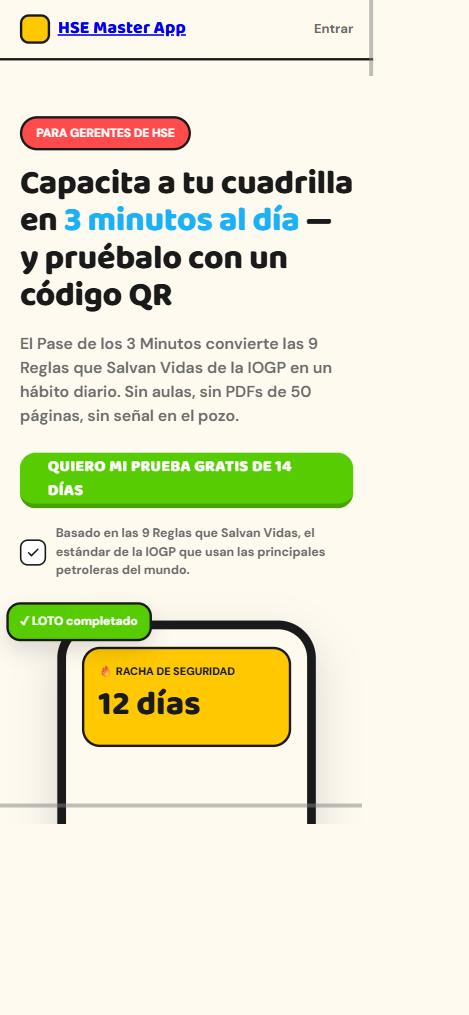
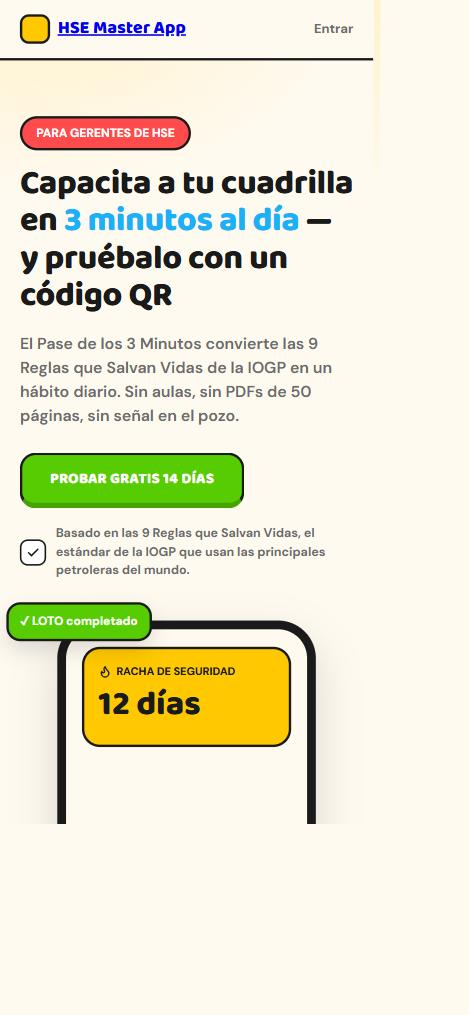
Sesión 3: corrige defectos top de la primera revisión de la landing

diff --git a/landing.html b/landing.html
@@ -18,18 +18,36 @@
     --rojo: #ff4b4b; --rojo-sombra: #d93838;
     --font-display: 'Baloo 2', sans-serif; --font-body: 'DM Sans', sans-serif;
   }
-  body { background: var(--bg); color: var(--ink); font-family: var(--font-body); line-height: 1.5; }
-  .wrap { max-width: 1120px; margin: 0 auto; padding: 0 20px; }
+  body {
+    background:
+      radial-gradient(540px 320px at 8% 0%, color-mix(in oklab, var(--amarillo) 16%, transparent), transparent 60%),
+      radial-gradient(480px 300px at 96% 14%, color-mix(in oklab, var(--azul) 12%, transparent), transparent 60%),
+      radial-gradient(460px 280px at 4% 72%, color-mix(in oklab, var(--verde) 10%, transparent), transparent 60%),
+      var(--bg);
+    color: var(--ink); font-family: var(--font-body); line-height: 1.5;
+  }
+  .wrap { max-width: 1120px; margin: 0 auto; padding: 0 20px; position: relative; }
   section { padding: 72px 0; }
   h1, h2, h3 { font-family: var(--font-display); font-weight: 800; letter-spacing: -0.01em; }
+  a:focus-visible, button:focus-visible, .boton:focus-visible, summary:focus-visible {
+    outline: 3px solid var(--azul); outline-offset: 3px; border-radius: 4px;
+  }
+  .boton:hover { filter: brightness(1.04); }
+  .top a.entrar:hover { color: var(--ink); text-decoration: underline; }
+  /* ── Movimiento: revelado al hacer scroll (respeta reduced-motion) ── */
+  .reveal { opacity: 0; transform: translateY(18px); transition: opacity 500ms ease, transform 500ms ease; }
+  .reveal.in { opacity: 1; transform: translateY(0); }
+  @media (prefers-reduced-motion: reduce) { .reveal { opacity: 1; transform: none; transition: none; } }
   .boton {
     display: inline-flex; align-items: center; justify-content: center; gap: 8px;
     height: 56px; padding: 0 28px; border-radius: 16px; font-family: var(--font-display);
-    font-size: 16px; font-weight: 800; text-decoration: none; border: none; cursor: pointer;
-    text-transform: uppercase; letter-spacing: 0.02em;
+    font-size: 15px; font-weight: 800; text-decoration: none; cursor: pointer;
+    text-transform: uppercase; letter-spacing: 0.01em; border: 3px solid var(--ink);
+    transition: transform 120ms ease, border-bottom-width 120ms ease, margin-top 120ms ease;
   }
-  .boton-verde { background: var(--verde); color: #fff; border-bottom: 5px solid var(--verde-sombra); }
-  .boton-amarillo { background: var(--amarillo); color: var(--ink); border-bottom: 5px solid var(--amarillo-sombra); }
+  .boton-verde { background: var(--verde); color: #fff; border-bottom: 6px solid var(--verde-sombra); }
+  .boton-amarillo { background: var(--amarillo); color: var(--ink); border-bottom: 6px solid var(--amarillo-sombra); }
+  .boton:active { border-bottom-width: 3px; transform: translateY(3px); }
   .badge { display: inline-flex; align-items: center; gap: 6px; background: var(--rojo); color: #fff;
            border: 2.5px solid var(--ink); border-radius: 999px; padding: 6px 14px; font-size: 12px; font-weight: 800; }
   .bloque { border-radius: 20px; border: 3px solid var(--ink); }
@@ -58,7 +76,8 @@
                 background: var(--bg); overflow: hidden; box-shadow: 0 20px 44px rgb(0 0 0 / 0.14); }
   .phone-mini .scr { padding: 18px 16px; }
   .phone-mini .racha { background: var(--amarillo); border: 3px solid var(--ink); border-radius: 18px; padding: 14px; }
-  .phone-mini .racha .l { font-size: 11px; font-weight: 800; text-transform: uppercase; }
+  .phone-mini .racha .l { font-size: 11px; font-weight: 800; text-transform: uppercase; display: flex; align-items: center; gap: 5px; }
+  .ic-flame { display: inline-flex; flex-shrink: 0; }
   .phone-mini .racha .n { font-family: var(--font-display); font-size: 34px; font-weight: 800; }
   .float-chip { position: absolute; background: var(--verde); color: #fff; border: 3px solid var(--ink); border-radius: 14px;
                 padding: 8px 12px; font-size: 12px; font-weight: 800; box-shadow: 0 10px 20px rgb(0 0 0 / 0.12); }
@@ -70,7 +89,9 @@
   @media (min-width: 700px) { .problema h2 { font-size: 34px; } }
   .preguntas { margin-top: 36px; display: grid; gap: 14px; grid-template-columns: 1fr; }
   @media (min-width: 700px) { .preguntas { grid-template-columns: 1fr 1fr; } }
-  .pregunta-card { display: flex; gap: 14px; align-items: flex-start; background: var(--bg); border: 3px solid var(--ink); border-radius: 18px; padding: 16px; }
+  .pregunta-card { display: flex; gap: 14px; align-items: flex-start; background: var(--bg); border: 3px solid var(--ink); border-radius: 18px; padding: 16px;
+                   transition: transform 150ms ease, box-shadow 150ms ease; }
+  .pregunta-card:hover { transform: translateY(-3px); box-shadow: 0 8px 0 -4px rgb(26 26 26 / 0.12), 0 10px 16px rgb(26 26 26 / 0.08); }
   .pregunta-card .ic { width: 42px; height: 42px; border-radius: 12px; background: var(--rojo); border: 2.5px solid var(--ink);
                         display: flex; align-items: center; justify-content: center; flex-shrink: 0; }
   .pregunta-card p { font-size: 14.5px; font-weight: 700; }
@@ -163,7 +184,9 @@
   .faq h2 { text-align: center; font-size: 28px; }
   .faq-list { max-width: 720px; margin: 36px auto 0; display: flex; flex-direction: column; gap: 12px; }
   .faq-item { background: var(--bg); border: 3px solid var(--ink); border-radius: 16px; padding: 18px 20px; }
+  .faq-item { transition: background 150ms ease; }
   .faq-item summary { font-weight: 800; font-size: 14.5px; cursor: pointer; list-style: none; display: flex; justify-content: space-between; align-items: center; }
+  .faq-item summary:hover { color: var(--azul-sombra); }
   .faq-item summary::-webkit-details-marker { display: none; }
   .faq-item p { margin-top: 10px; font-size: 13.5px; color: var(--ink-2); font-weight: 600; line-height: 1.6; }
   .chev { transition: transform 0.2s; }
@@ -212,7 +235,7 @@
       <h1 style="margin-top:14px;">Capacita a tu cuadrilla en <em>3 minutos al día</em> — y pruébalo con un código QR</h1>
       <p class="sub">El Pase de los 3 Minutos convierte las 9 Reglas que Salvan Vidas de la IOGP en un hábito diario. Sin aulas, sin PDFs de 50 páginas, sin señal en el pozo.</p>
       <div class="cta-row">
-        <a href="#oferta" class="boton boton-verde">Quiero mi prueba gratis de 14 días</a>
+        <a href="#oferta" class="boton boton-verde">Probar gratis 14 días</a>
       </div>
       <div class="prueba-industria">
         <span class="chip">
@@ -225,7 +248,7 @@
       <div class="phone-mini">
         <div class="scr">
           <div class="racha">
-            <p class="l">🔥 Racha de seguridad</p>
+            <p class="l"><svg class="ic-flame" width="13" height="13" viewBox="0 0 24 24" fill="none" stroke="#1a1a1a" stroke-width="2.6" stroke-linecap="round" stroke-linejoin="round"><path d="M8.5 14.5A2.5 2.5 0 0 0 11 12c0-1.38-.5-2-1-3-1.07-2.14-.22-4.05 2-6 .5 2.5 2 4.9 4 6.5 2 1.6 3 3.5 3 5.5a7 7 0 1 1-14 0c0-1.15.43-2.29 1-3a2.5 2.5 0 0 0 2.5 2.5z"/></svg>Racha de seguridad</p>
             <p class="n">12 días</p>
           </div>
         </div>
@@ -238,7 +261,7 @@
 
 <!-- 2. PROBLEMA -->
 <section class="problema">
-  <div class="wrap">
+  <div class="wrap reveal">
     <h2>¿Te suena familiar?</h2>
     <div class="preguntas">
       <div class="pregunta-card">
@@ -267,15 +290,17 @@
 
 <!-- 3. AGITACIÓN -->
 <section class="agitacion">
-  <div class="wrap">
+  <div class="wrap reveal">
     <h2>El problema no es que no des charlas. Es que nadie prueba que entendieron.</h2>
-    <p>Cada mes que sigue igual no es solo papeleo acumulado: es la posibilidad real de una <b>fatalidad que cierra la operación</b>, destruye tu carrera y te lleva a responder legalmente. Si nada cambia, en 6 meses vas a seguir haciendo inducciones repetitivas por la rotación de contratistas, sin saber <b>qué no saben</b> tus trabajadores — hasta que un near miss te lo diga de la peor forma. Ya probaste PowerPoint, e-learnings y talleres presenciales: fallan porque solo miden <b>"asistencia"</b>, no comprensión — la gente le da "siguiente, siguiente" sin leer un párrafo.</p>
+    <p>Cada mes que sigue igual no es solo papeleo acumulado: es la posibilidad real de una <b>fatalidad que cierra la operación</b>, destruye tu carrera y te lleva a responder legalmente.</p>
+    <p style="margin-top:16px;">Si nada cambia, en 6 meses sigues haciendo inducciones repetitivas por la rotación de contratistas, sin saber <b>qué no saben</b> tus trabajadores — hasta que un near miss te lo diga de la peor forma.</p>
+    <p style="margin-top:16px;">Ya probaste PowerPoint, e-learnings y talleres presenciales: fallan porque solo miden <b>"asistencia"</b>, no comprensión — la gente le da "siguiente, siguiente" sin leer un párrafo.</p>
   </div>
 </section>
 
 <!-- 4. SOLUCIÓN -->
 <section class="solucion">
-  <div class="wrap">
+  <div class="wrap reveal">
     <div class="big-idea">
       <h2>No es tu gente la que falla la seguridad — es la firma de trámite la que no prueba nada. <span class="mec">El Pase de los 3 Minutos</span> lo reemplaza por una prueba real.</h2>
     </div>
@@ -311,7 +336,7 @@
 
 <!-- 5. LA APP POR DENTRO -->
 <section class="app-dentro">
-  <div class="wrap">
+  <div class="wrap reveal">
     <h2 style="text-align:center; font-size:28px;">Así se ve el Pase de los 3 Minutos por dentro</h2>
     <p style="text-align:center; margin-top:10px; color:var(--ink-2); font-weight:600;">Mini-demos reales del mecanismo — construidos con el estilo final de la app, no capturas de otra herramienta.</p>
     <div class="carrusel-wrap">
@@ -323,7 +348,7 @@
               <div class="mini-chip"><p class="n">2°</p><p class="l">RANKING</p></div>
             </div>
             <div class="racha" style="margin-top:10px; padding:12px;">
-              <p class="l" style="font-size:9px;">🔥 RACHA</p>
+              <p class="l" style="font-size:9px;"><svg class="ic-flame" width="11" height="11" viewBox="0 0 24 24" fill="none" stroke="#1a1a1a" stroke-width="2.6" stroke-linecap="round" stroke-linejoin="round"><path d="M8.5 14.5A2.5 2.5 0 0 0 11 12c0-1.38-.5-2-1-3-1.07-2.14-.22-4.05 2-6 .5 2.5 2 4.9 4 6.5 2 1.6 3 3.5 3 5.5a7 7 0 1 1-14 0c0-1.15.43-2.29 1-3a2.5 2.5 0 0 0 2.5 2.5z"/></svg>RACHA</p>
               <p class="n" style="font-size:24px;">12 días</p>
             </div>
           </div></div>
@@ -376,7 +401,7 @@
 
 <!-- 6. OFERTA -->
 <section class="oferta" id="oferta">
-  <div class="wrap">
+  <div class="wrap reveal">
     <h2>14 días gratis, sin tarjeta, para 1 cuadrilla</h2>
     <p class="sub">Hasta 20 trabajadores, con el dashboard completo del Gerente de HSE desde el primer día.</p>
 
@@ -410,13 +435,13 @@
         <p class="nombre">Anual</p>
         <p class="precio">US$6.67<small>/usuario/mes</small></p>
         <p class="nota">Se cobra US$80/usuario/año</p>
-        <a href="#" class="boton boton-verde">Empezar mi prueba gratis</a>
+        <a href="#" class="boton boton-verde">Empezar prueba gratis</a>
       </div>
       <div class="plan">
         <p class="nombre">Mensual</p>
         <p class="precio">US$8<small>/usuario/mes</small></p>
         <p class="nota">Cancela cuando quieras</p>
-        <a href="#" class="boton boton-amarillo">Empezar mi prueba gratis</a>
+        <a href="#" class="boton boton-amarillo">Empezar prueba gratis</a>
       </div>
     </div>
     <p class="trial-strip">Los 14 días de prueba son iguales en ambos planes — decides después de ver la adopción real de tu cuadrilla.</p>
@@ -425,7 +450,7 @@
 
 <!-- 7. GARANTÍA -->
 <section class="garantia">
-  <div class="wrap">
+  <div class="wrap reveal">
     <div class="escudo">
       <svg width="30" height="30" viewBox="0 0 24 24" fill="none" stroke="#fff" stroke-width="2.4" stroke-linecap="round" stroke-linejoin="round"><path d="M12 22s8-4 8-10V5l-8-3-8 3v7c0 6 8 10 8 10Z"/></svg>
     </div>
@@ -437,7 +462,7 @@
 
 <!-- 8. FAQ -->
 <section class="faq">
-  <div class="wrap">
+  <div class="wrap reveal">
     <h2>Preguntas antes de empezar</h2>
     <div class="faq-list">
       <details class="faq-item" open>
@@ -482,11 +507,11 @@
 
 <!-- 9. CTA FINAL EMOCIONAL -->
 <section class="cta-final">
-  <div class="wrap">
+  <div class="wrap reveal">
     <h2>Imagina abrir tu panel mañana a las 5 AM y ver, en 10 segundos, que toda tu cuadrilla completó su reto de hoy.</h2>
     <p class="fp">Ese es el día de el líder que modernizó la cultura de seguridad de su empresa — no el que frena el trabajo. 14 días gratis, sin tarjeta, con la Garantía del Primer Pase.</p>
     <div class="cta-row">
-      <a href="#oferta" class="boton boton-verde">Quiero mi prueba gratis de 14 días</a>
+      <a href="#oferta" class="boton boton-verde">Probar gratis 14 días</a>
     </div>
     <div class="ps">
       <b>PD:</b> El Pase de los 3 Minutos convierte las 9 Reglas que Salvan Vidas en un hábito diario de 3 minutos, con un código QR que prueba quién está realmente listo para entrar al pozo. Hoy: 14 días gratis, sin tarjeta, para 1 cuadrilla de hasta 20 trabajadores, con la Garantía del Primer Pase incluida.
@@ -528,6 +553,23 @@
     const idx = Math.round(carrusel.scrollLeft / (carrusel.scrollWidth / dots.length));
     dots.forEach((d, i) => d.classList.toggle('on', i === idx));
   });
+
+  // Movimiento: revelado al hacer scroll, con stagger corto entre secciones
+  const reveals = document.querySelectorAll('.reveal');
+  const prefersReduced = window.matchMedia('(prefers-reduced-motion: reduce)').matches;
+  if (!prefersReduced && 'IntersectionObserver' in window) {
+    const revealIo = new IntersectionObserver((entries) => {
+      entries.forEach((entry, i) => {
+        if (entry.isIntersecting) {
+          setTimeout(() => entry.target.classList.add('in'), i * 60);
+          revealIo.unobserve(entry.target);
+        }
+      });
+    }, { threshold: 0.12 });
+    reveals.forEach((el) => revealIo.observe(el));
+  } else {
+    reveals.forEach((el) => el.classList.add('in'));
+  }
 </script>
 
 </body>

diff --git a/docs/revisiones/landing-veredicto.md b/docs/revisiones/landing-veredicto.md
@@ -1,0 +1,14 @@
+# VEREDICTO revisor-visual — landing
+Fecha: 2026-10-15
+Screenshot: docs/revisiones/landing-375.png
+Usabilidad: 24/40
+Craft: 11/20
+Copy (si vende): 19/20
+Fidelidad (si hubo referencia): N-A
+Veredicto: NO LISTA
+Top defectos:
+1. CTA principal "Quiero mi prueba gratis de 14 días" (hero, botón verde) — sin el borde negro de 2.5-3px que la FICHA-ARTE exige en "TODOS los bloques y botones" (código: `.boton{border:none}` en el `<style>`, solo tiene border-bottom de 5px) y contraste verde-sobre-crema ≈2:1, bajo el mínimo 3:1 exigido para el CTA héroe → agregar `border: 3px solid var(--ink)` a `.boton` manteniendo el border-bottom del efecto presionable.
+2. Botones `.boton`, `.boton-verde`, `.boton-amarillo` (hoja de estilos) — no tienen :hover ni :active definidos en el CSS, pese a que la propia ficha pide que el botón "se hunda (pierda el border-bottom) al tocar" → agregar `.boton:active{border-bottom-width:0; transform:translateY(4px)}` con transición ≤150ms.
+3. Sección 3 "Agitación" (párrafo único, bajo el h2) — bloque de ~5 oraciones que a 375px ocupa muchas más de 3-4 líneas, justo en la sección que debe doler rápido, no cansar leyendo → partir en 2-3 bloques cortos de máx. 3 líneas cada uno.
+4. Hero, botón CTA (visible en el screenshot a 375px) — el texto "QUIERO MI PRUEBA GRATIS DE 14 DÍAS" se parte en 2 líneas dentro del botón, rompiendo el encaje óptico "gordito de una línea" del resto de chips/badges → acortar el copy a "Quiero mi prueba gratis" o rediseñar el botón para una sola línea cómoda en mobile.
+5. Icono de racha "🔥" (hero y primer slide del carrusel) — usa un emoji de sistema en vez de un SVG propio, rompiendo la consistencia del sistema de íconos (el resto de la pantalla usa SVG con el mismo trazo: checks, lupa, candado, escudo) → reemplazar por un SVG de llama con el mismo stroke que los demás íconos.

diff --git a/ESTADO.md b/ESTADO.md
@@ -1,7 +1,7 @@
 # ESTADO — HSE Master App
 Última actualización: 2026-10-15 | Sesión actual: 3
 
-⏸ CHECKPOINT — Sesión 3 en curso: landing.html construida (10 secciones canónicas, copy en docs/copy/landing.md trazado a FICHA-AVATAR.md, mecanismo bautizado "El Pase de los 3 Minutos"), verificada a 375px y enviada a revisión independiente (gate de la Regla 7) / Siguiente acción exacta: leer el veredicto del revisor cuando llegue, corregir lo que marque, y solo entonces declarar la landing lista.
+⏸ CHECKPOINT — Sesión 3 en curso: primera revisión independiente dio NO LISTA (usabilidad 24/40, craft 11/20, copy 19/20) — se corrigieron los 5 defectos top (borde+contraste del CTA, estado :active, párrafo de agitación partido, texto del CTA a una línea, emoji 🔥 reemplazado por SVG) y se sumaron mejoras de movimiento (scroll-reveal con reduced-motion), foco de teclado y profundidad de fondo. Reenviado a segunda revisión independiente / Siguiente acción exacta: leer el segundo veredicto; si pasa el gate (≥36/40, ≥16/20, ≥16/20) declarar la landing lista, si no, repetir el ciclo.
 
 ## Qué es esta app (3 líneas máximo)
 Plataforma móvil B2B de microaprendizaje gamificado (estilo Duolingo) para capacitar, evaluar y certificar diariamente al personal de campo y contratistas en seguridad industrial (HSE/IOGP) en la industria petrolera. El trabajador usa la app en el celular 3 min/día; el Gerente de HSE paga la suscripción y ve un dashboard de adopción y riesgo por cuadrilla.
